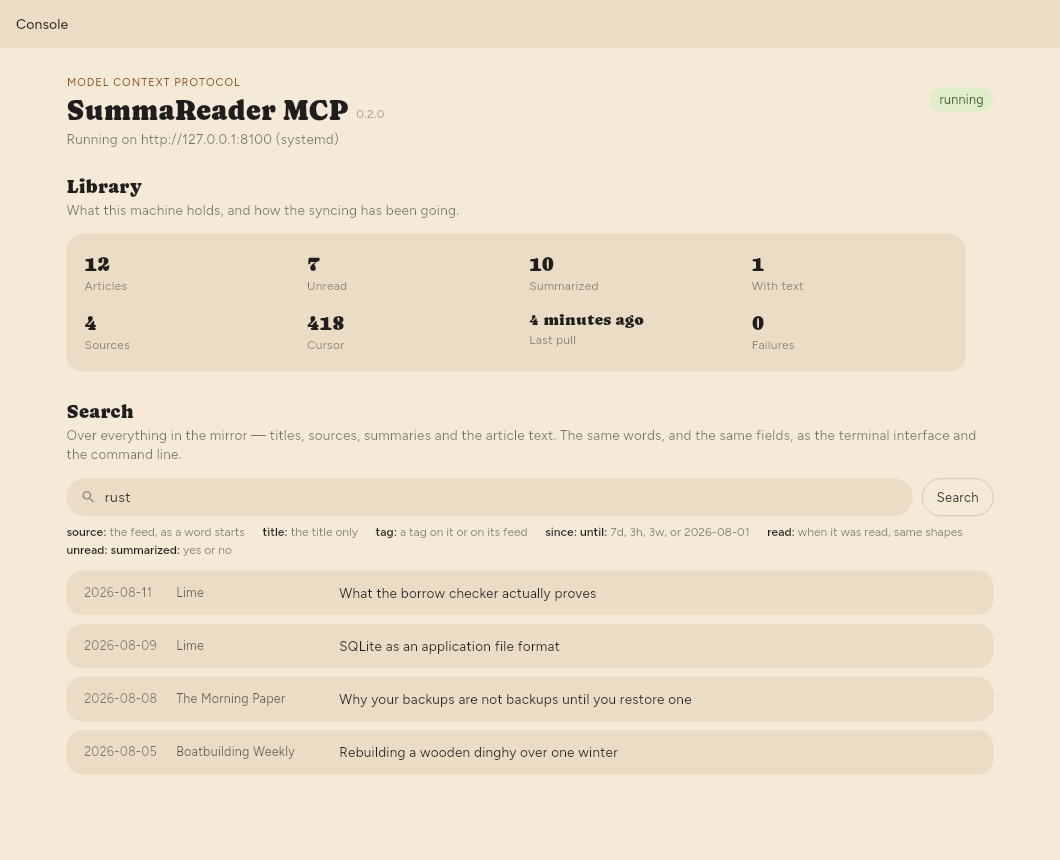
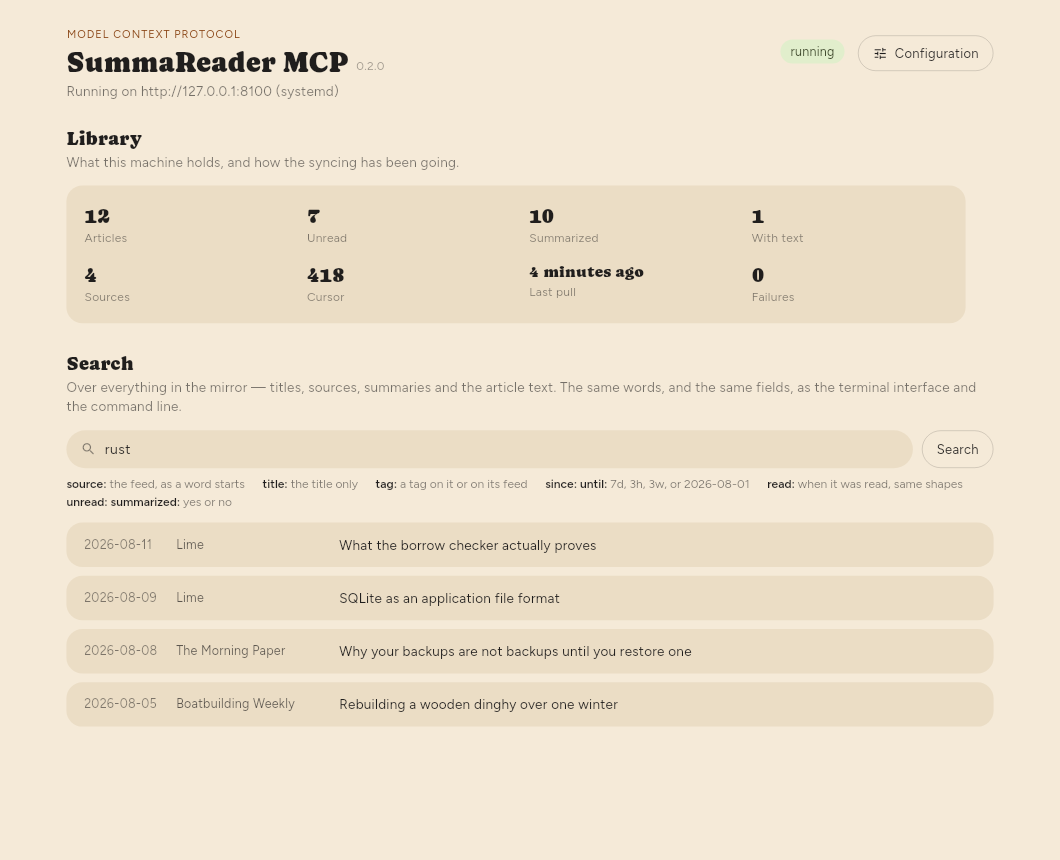
Configuration is a button, where a grey strip used to be
The settings were behind a MenuBar holding one submenu labelled "Console" —
a thin strip at the top of the window that somebody has to think to click, and
which took two presses to reach the only destination it had. It was asked
where the settings were, which is the whole answer.

Now it is a pill in the header beside the running light, labelled
Configuration with Icons.tune, and a Close beside it to come back. That is how
the app spells the same control (lib/src/ui/shell.dart), and the sync server's
console now spells it the same way too.

The section that was called "Configuration" is split, because it would
otherwise sit inside a page of that name and read as a mistake: **Where the
data lives**, which is the only editable half, and **From the config file**,
which is read and never written — a window that edits somebody's master key is
a window that can lose it.

The Dart copy of the default moved with `config.py`'s, which it has to: a
window that opens a different library from the server it supervises reports an
empty mirror that is syncing perfectly. Three tests for it, including that the
location no longer contains the word the key is still spelled with.

Claude-Session: https://claude.ai/code/session_01YMCr4Ddr4nsdM8htNKYxAh

diff --git a/console/lib/src/console.dart b/console/lib/src/console.dart
@@ -125,7 +125,8 @@ class _ConsoleViewState extends State<ConsoleView> {
             const SizedBox(height: Ar.space6),
             _server(),
             if (widget.state.local) _address(),
-            _configuration(),
+            _whereTheDataLives(),
+            _fromTheConfigFile(),
           ]
         : [
             _header(),
@@ -139,10 +140,10 @@ class _ConsoleViewState extends State<ConsoleView> {
           ],
   );
 
-  /// The menu across the top, then the sections under it.
+  /// The sections, whichever screen they belong to.
   ///
-  /// Both screens are drawn by this, so the menu is in one place and the
-  /// window does not change shape between them.
+  /// Both are drawn by this, so the window does not change shape between them
+  /// — the header, and the Configuration pill in it, are the only fixed part.
   Widget _screen(List<Widget> sections) => Scaffold(
     backgroundColor: Ar.bg,
     body: Stack(
@@ -153,7 +154,6 @@ class _ConsoleViewState extends State<ConsoleView> {
           child: Column(
             crossAxisAlignment: CrossAxisAlignment.stretch,
             children: [
-              _menu(),
               Expanded(
                 child: Center(
                   child: ConstrainedBox(
@@ -190,35 +190,6 @@ class _ConsoleViewState extends State<ConsoleView> {
   /// to scroll past the settings to use. They are a screen of their own now,
   /// and this is how it is reached. The entry for the screen already on is
   /// dead rather than missing, so the menu reads the same from both.
-  Widget _menu() => MenuBar(
-    style: MenuStyle(
-      backgroundColor: WidgetStatePropertyAll(Ar.surface),
-      elevation: const WidgetStatePropertyAll(0),
-      shape: const WidgetStatePropertyAll(RoundedRectangleBorder()),
-    ),
-    children: [
-      SubmenuButton(
-        menuChildren: [
-          MenuItemButton(
-            leadingIcon: const Icon(Icons.menu_book_rounded, size: 16),
-            onPressed: _settings
-                ? () => setState(() => _settings = false)
-                : null,
-            child: const Text('Library and Search'),
-          ),
-          MenuItemButton(
-            leadingIcon: const Icon(Icons.tune_rounded, size: 16),
-            onPressed: _settings
-                ? null
-                : () => setState(() => _settings = true),
-            child: const Text('Settings'),
-          ),
-        ],
-        child: const Text('Console'),
-      ),
-    ],
-  );
-
   // ---- the pieces ------------------------------------------------------
 
   Widget _header() {
@@ -273,6 +244,26 @@ class _ConsoleViewState extends State<ConsoleView> {
             foreground: widget.state.running ? Ar.accent2800 : Ar.dim(0.6),
             fontSize: 12.5,
           ),
+        ),
+        const SizedBox(width: Ar.space3),
+        // Here rather than in a menu bar across the top. That bar held one
+        // submenu, labelled "Console", and everything but the library was
+        // behind that word — a strip of grey somebody has to think to click,
+        // which is exactly what happened. The app spells this control as a
+        // pill: label, Icons.tune, and a Close beside the title to come back.
+        Padding(
+          padding: const EdgeInsets.only(top: Ar.space2),
+          child: _settings
+              ? PillButton(
+                  label: 'Close',
+                  icon: Icons.arrow_back,
+                  onTap: () => setState(() => _settings = false),
+                )
+              : PillButton(
+                  label: 'Configuration',
+                  icon: Icons.tune,
+                  onTap: () => setState(() => _settings = true),
+                ),
         ),
       ],
     );
@@ -424,11 +415,18 @@ class _ConsoleViewState extends State<ConsoleView> {
     ]),
   );
 
-  Widget _configuration() => _section(
-    'Configuration',
-    'Where the library is, and what the rest of it says. Everything but the '
-        'library is read-only here: a window that edits somebody\'s master '
-        'key is a window that can lose it.',
+  /// Where the library is — the one thing on this page that is editable.
+  ///
+  /// Split out of a section that was called "Configuration", which is now the
+  /// name of the page it sits on. A section inside a page of the same name
+  /// reads as a mistake, and this half is also the only half somebody can
+  /// change.
+  Widget _whereTheDataLives() => _section(
+    'Where the data lives',
+    'The decrypted library, and nothing else. It is the most complete copy of '
+        'your reading that exists anywhere, because a mirror runs no '
+        'retention — so it lives with your data rather than in a cache '
+        'directory, whatever it is still spelled.',
     _card([
       _row(
         'Library',
@@ -482,6 +480,18 @@ class _ConsoleViewState extends State<ConsoleView> {
                   'opened read-only. Needs no server, token or master key, '
                   'and nothing here will pull into it.',
       ),
+    ]),
+  );
+
+  /// What the config file says, read and not edited.
+  ///
+  /// A window that edits somebody's master key is a window that can lose it,
+  /// so these are shown and never written from here. The file itself is named
+  /// in the first row, which is where to go and change them.
+  Widget _fromTheConfigFile() => _section(
+    'From the config file',
+    'Read here, edited there. The master key is never shown at all.',
+    _card([
       for (final (label, value) in widget.state.configRows)
         _row(
           label,

diff --git a/console/test/console_test.dart b/console/test/console_test.dart
@@ -49,9 +49,9 @@ ConsoleState reading(String? note, {bool local = false}) => ConsoleState(
 /// Walks the top menu to the settings, which is where everything but the
 /// library and the search box now lives.
 Future<void> openSettings(WidgetTester tester) async {
-  await tester.tap(find.text('Console'));
-  await tester.pumpAndSettle();
-  await tester.tap(find.text('Settings'));
+  // One press. It was two — a menu bar holding one submenu called "Console",
+  // with everything but the library behind that word.
+  await tester.tap(find.text('Configuration'));
   await tester.pumpAndSettle();
 }
 
@@ -68,16 +68,24 @@ void main() {
     // results started below the fold.
     expect(find.text('The server'), findsNothing);
     expect(find.text('Address'), findsNothing);
-    expect(find.text('Configuration'), findsNothing);
+    expect(find.text('Where the data lives'), findsNothing);
+    expect(find.text('From the config file'), findsNothing);
+    // The way to them, though, is on this page and says what it is — it was a
+    // grey strip reading "Console" that had to be clicked to find out.
+    expect(find.text('Configuration'), findsOneWidget);
   });
 
-  testWidgets('the menu reaches everything that moved', (tester) async {
+  testWidgets('one press reaches everything that moved', (tester) async {
     await draw(tester, reading(null, local: true));
     await openSettings(tester);
 
     expect(find.text('The server'), findsOneWidget);
     expect(find.text('Address'), findsOneWidget);
-    expect(find.text('Configuration'), findsOneWidget);
+    // Two sections where there was one called "Configuration" — which is the
+    // name of the page now, and a section inside a page of the same name
+    // reads as a mistake.
+    expect(find.text('Where the data lives'), findsOneWidget);
+    expect(find.text('From the config file'), findsOneWidget);
     expect(find.text('Start'), findsOneWidget);
     expect(find.text('Sync now'), findsOneWidget);
     // The library path is edited here, not read: it is the one line of the
@@ -86,9 +94,7 @@ void main() {
     expect(find.text('/home/you/config.json'), findsOneWidget);
 
     // And back again, or the settings are a one-way door.
-    await tester.tap(find.text('Console'));
-    await tester.pumpAndSettle();
-    await tester.tap(find.text('Library and Search'));
+    await tester.tap(find.text('Close'));
     await tester.pumpAndSettle();
     expect(find.text('Search'), findsWidgets);
   });

diff --git a/console/lib/src/config.dart b/console/lib/src/config.dart
@@ -229,23 +229,42 @@ String? _first(Map<String, String> env, List<String> keys) {
 
 /// Where this platform lets an unprivileged program keep things — the same
 /// three answers `config.py` gives, so both find one file.
+///
+/// The second of the pair is the **data** directory, and was the cache one
+/// until the library moved out of ~/.cache: a mirror runs no retention, so it
+/// is the most complete copy of a library rather than a subset of one, and
+/// ~/.cache is what a disk cleaner empties. It is still *spelled* cache
+/// everywhere — see `config.py`, which explains why renaming it is not worth
+/// what it would cost.
+///
+/// These two must move together. A window that opens a different library from
+/// the server it supervises reports an empty mirror that is syncing fine.
 (String, String) _home(Map<String, String> env) {
   final home = env['HOME'] ?? env['USERPROFILE'] ?? '';
   if (Platform.isWindows) {
     final roaming = env['APPDATA'] ?? '$home/AppData/Roaming';
     final local = env['LOCALAPPDATA'] ?? '$home/AppData/Local';
-    return ('$roaming/$_name', '$local/$_name/cache');
+    return ('$roaming/$_name', '$local/$_name');
   }
   if (Platform.isMacOS) {
-    return (
-      '$home/Library/Application Support/$_name',
-      '$home/Library/Caches/$_name',
-    );
+    // One directory for both, which is what this platform offers.
+    final base = '$home/Library/Application Support/$_name';
+    return (base, base);
   }
   return (
     '${_first(env, ['XDG_CONFIG_HOME']) ?? '$home/.config'}/$_name',
-    '${_first(env, ['XDG_CACHE_HOME']) ?? '$home/.cache'}/$_name',
+    '${_xdgDataHome(env, home)}/$_name',
   );
+}
+
+/// XDG_DATA_HOME when it is absolute, else the ~/.local/share it defines.
+///
+/// Relative is ignored rather than resolved, as the specification requires:
+/// resolving one against the working directory is how a window started from
+/// two different shells opens two different libraries.
+String _xdgDataHome(Map<String, String> env, String home) {
+  final named = _first(env, ['XDG_DATA_HOME']) ?? '';
+  return named.startsWith('/') ? named : '$home/.local/share';
 }
 
 String defaultConfigPath([Map<String, String>? environment]) =>

diff --git a/console/test/config_test.dart b/console/test/config_test.dart
@@ -161,4 +161,52 @@ void main() {
       9000,
     );
   });
+
+  group('where the library goes when nobody says', () {
+    // Linux only: the branch is per-platform and this suite runs on one of
+    // them. macOS puts both in Application Support and is asserted in
+    // tests/test_config.py, which can state a platform rather than be one.
+    test('the data directory, not the cache one', () {
+      // It was XDG_CACHE_HOME. A mirror runs no retention, so it is the most
+      // complete copy of a library rather than a subset of one — and ~/.cache
+      // is exactly what a disk cleaner empties.
+      final env = {
+        'HOME': '/home/somebody',
+        'XDG_CACHE_HOME': '/tmp/cache',
+        'XDG_DATA_HOME': '',
+      };
+      expect(
+        defaultCacheDir(env),
+        '/home/somebody/.local/share/summareader-mcp',
+      );
+      expect(
+        defaultCacheDir(env),
+        isNot(contains('cache')),
+        reason: 'the key is still spelled cache; the location must not be',
+      );
+    });
+
+    test('an absolute XDG_DATA_HOME is followed, a relative one is not', () {
+      const home = {'HOME': '/home/somebody'};
+      expect(
+        defaultCacheDir({...home, 'XDG_DATA_HOME': '/mnt/big/share'}),
+        '/mnt/big/share/summareader-mcp',
+      );
+      expect(
+        defaultCacheDir({...home, 'XDG_DATA_HOME': 'relative/share'}),
+        '/home/somebody/.local/share/summareader-mcp',
+        reason:
+            'the specification says absolute, and resolving a relative one '
+            'against the working directory opens two libraries',
+      );
+    });
+
+    test('the config file did not move with it', () {
+      final env = {'HOME': '/home/somebody', 'XDG_CONFIG_HOME': ''};
+      expect(
+        defaultConfigPath(env),
+        '/home/somebody/.config/summareader-mcp/summareader-mcp.json',
+      );
+    });
+  });
 }
